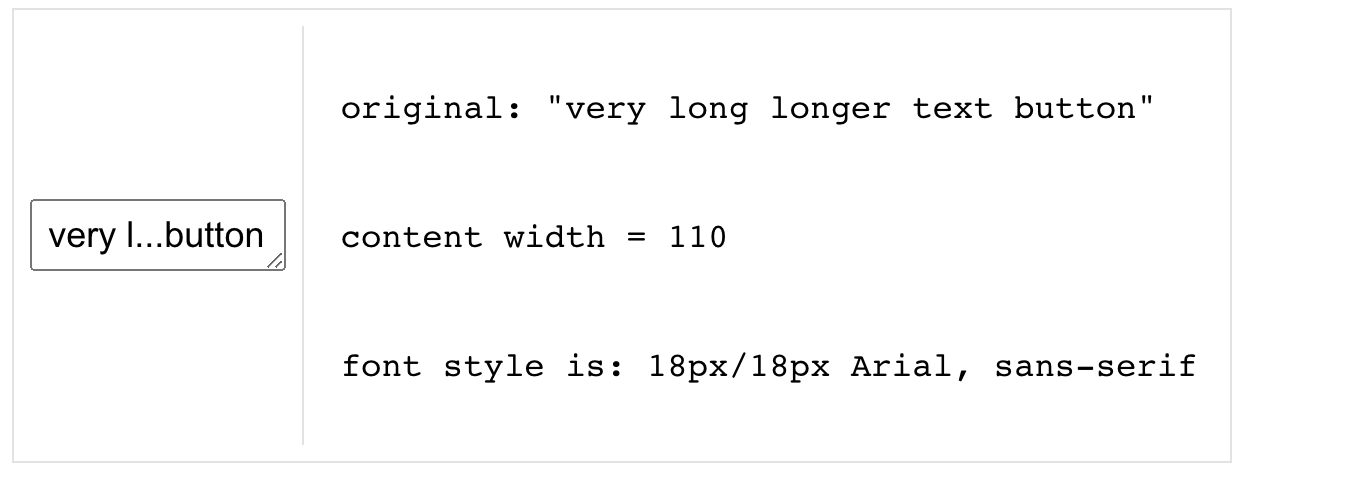
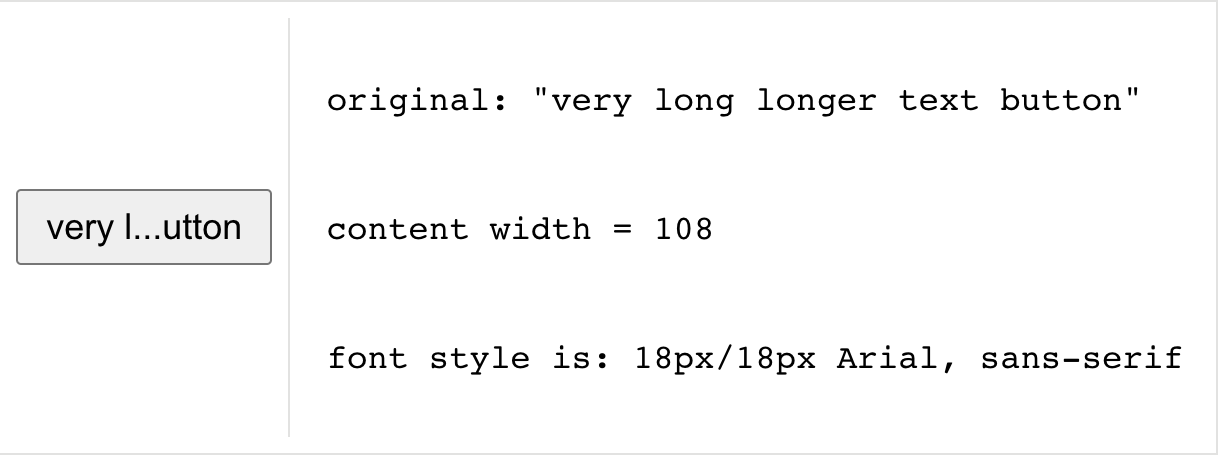
update read.me

diff --git a/README.md b/README.md
@@ -4,7 +4,7 @@ This react hook dynamically truncates text from the middle
 
 ## Demo
 
-🚀 See [Demo:](https://627404cf0c3c4e0eca49c27d--phenomenal-brigadeiros-2b0d14.netlify.app/)
+🚀 See [Demo:](https://6277739a70c89c1ec4e0ce1c--phenomenal-brigadeiros-2b0d14.netlify.app)
 
 ## Installation
 
@@ -25,14 +25,14 @@ import { useTruncateFromMiddle } from 'use-truncate-from-middle';
 ```
 
 ```javascript
-const Textarea = ({
+const Button = ({
   originalLongText = 'very long longer text button',
   width = '128px', // width (total)= content width + border width + padding
   font = '18px/18px Arial, sans-serif',
 }) => {
   const btnRef = React.useRef(null);
 
-  const { truncatedText, contentWidth } = useTruncateFromMiddle({
+  const { truncatedText } = useTruncateFromMiddle({
     ref: btnRef,
     originalText: originalLongText || '',
     middleChars: '...',
@@ -40,21 +40,17 @@ const Textarea = ({
 
   return (
     <>
-      <textarea
-        ref={btnRef}
-        rows={1}
-        style={{ width: width, font: font }}
-        value={truncatedText}
-        readOnly
-      />
+      <button ref={btnRef} style={{ width: width, font: font }}>
+        {truncatedText}
+      </button>
     </>
   );
 };
 ```
 
 <figure>
-<figcaption>Truncated  from middle with given parameters</figcaption>
 <img src="./assets/capt.png" alt="truncate middle ss"/>
+<figcaption>Example : Button Text Truncated From Middle</figcaption>
 </figure>
 
 ### Props
